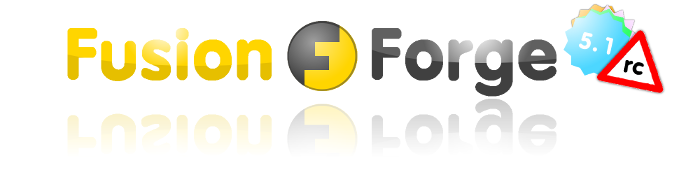
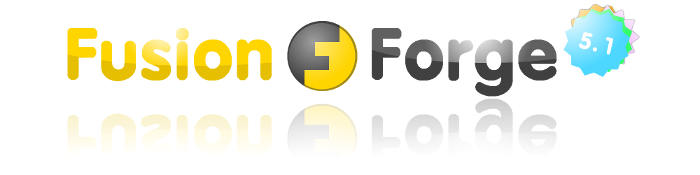
Preparing for 5.1 release
git-svn-id: svn+ssh://scm.fusionforge.org/srv/svn/fusionforge/branches/Branch_5_1@13662 9d84d37e-dcb1-4aad-b103-6f3d92f53bf6

Changed region(s): [[0.84, 0.1714, 0.96, 0.5429]]

diff --git a/src/common/include/FusionForge.class.php b/src/common/include/FusionForge.class.php
@@ -39,7 +39,7 @@ class FusionForge extends Error {
 		$this->Error();
 
 		$this->software_name = 'FusionForge' ;
-		$this->software_version = '5.0.90' ;
+		$this->software_version = '5.1' ;
 
 		if (isset($forge_pkg_name) && isset($forge_pkg_version)) {
 			$this->software_name = $forge_pkg_name;
